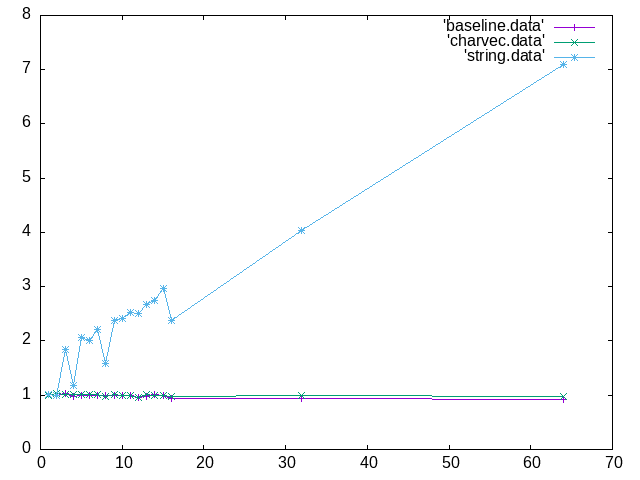
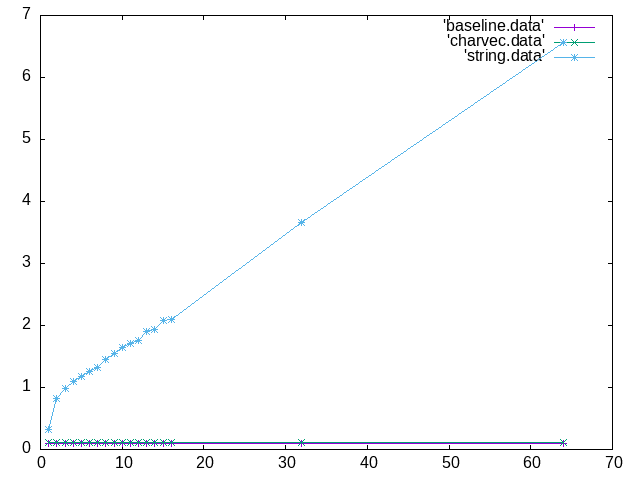
replaced homerolled "fastrand" with actual fastrand

diff --git a/charvec.rs b/charvec.rs
@@ -1,4 +1,4 @@
-use fastrand::*;
+use fastrand::Rng;
 
 #[derive(Debug, Clone, Copy)]
 enum Charset {
@@ -6,41 +6,52 @@ enum Charset {
     Ascii,
 }
 
+fn char(rng: &mut Rng) -> char {
+    let largest = char::MAX as u32;
+    let surrogate_start = 0xd800u32;
+    let surrogate_len = 0x800u32;
+    let mut val = rng.u32(..largest - surrogate_len);
+    if surrogate_start <= val {
+        val += surrogate_len;
+    }
+    val.try_into().unwrap()
+}
+
 impl Charset {
-    fn gen_char(self, rng: &mut FastRand) -> char {
+    fn gen_char(self, rng: &mut Rng) -> char {
         match self {
-            Self::Unicode => rng.random(),
-            Self::Ascii => rng.rand_range(0u8 as char, char::try_from(0x100u32).unwrap()),
+            Self::Unicode => char(rng),
+            Self::Ascii => rng.u8(..) as char,
         }
     }
 }
 
-fn bench_string(rng: &mut FastRand, charset: Charset, n: usize, m: usize) -> u32 {
+fn bench_string(rng: &mut Rng, charset: Charset, n: usize, m: usize) -> u32 {
     let index: String = (0..m).map(|_| charset.gen_char(rng)).collect();
     let mut result = 0;
     for _ in 0..n {
-        let i = rng.rand_range(0, m);
+        let i = rng.usize(..m);
         let c = index.chars().nth(i).unwrap();
         result ^= c as u32;
     }
     result
 }
 
-fn bench_charvec(rng: &mut FastRand, charset: Charset, n: usize, m: usize) -> u32 {
+fn bench_charvec(rng: &mut Rng, charset: Charset, n: usize, m: usize) -> u32 {
     let index: Vec<char> = (0..m).map(|_| charset.gen_char(rng)).collect();
     let mut result = 0;
     for _ in 0..n {
-        let i = rng.rand_range(0, m);
+        let i = rng.usize(..m);
         let c = index[i];
         result ^= c as u32;
     }
     result
 }
 
-fn bench_baseline(rng: &mut FastRand, _charset: Charset, n: usize, m: usize) -> u32 {
+fn bench_baseline(rng: &mut Rng, _charset: Charset, n: usize, m: usize) -> u32 {
     let mut result = 0;
     for _ in 0..n {
-        let i: usize = rng.rand_range(0, m);
+        let i: usize = rng.usize(..m);
         result ^= i as u32;
     }
     result
@@ -62,6 +73,7 @@ fn main() {
     let n = args[3].parse().unwrap();
     let m = args[4].parse().unwrap();
 
-    let mut rng = FastRand::default();
+    let mut rng = Rng::new();
+    rng.seed(0x123456789abcdef0);
     println!("{}", algorithm(&mut rng, charset, n, m));
 }
